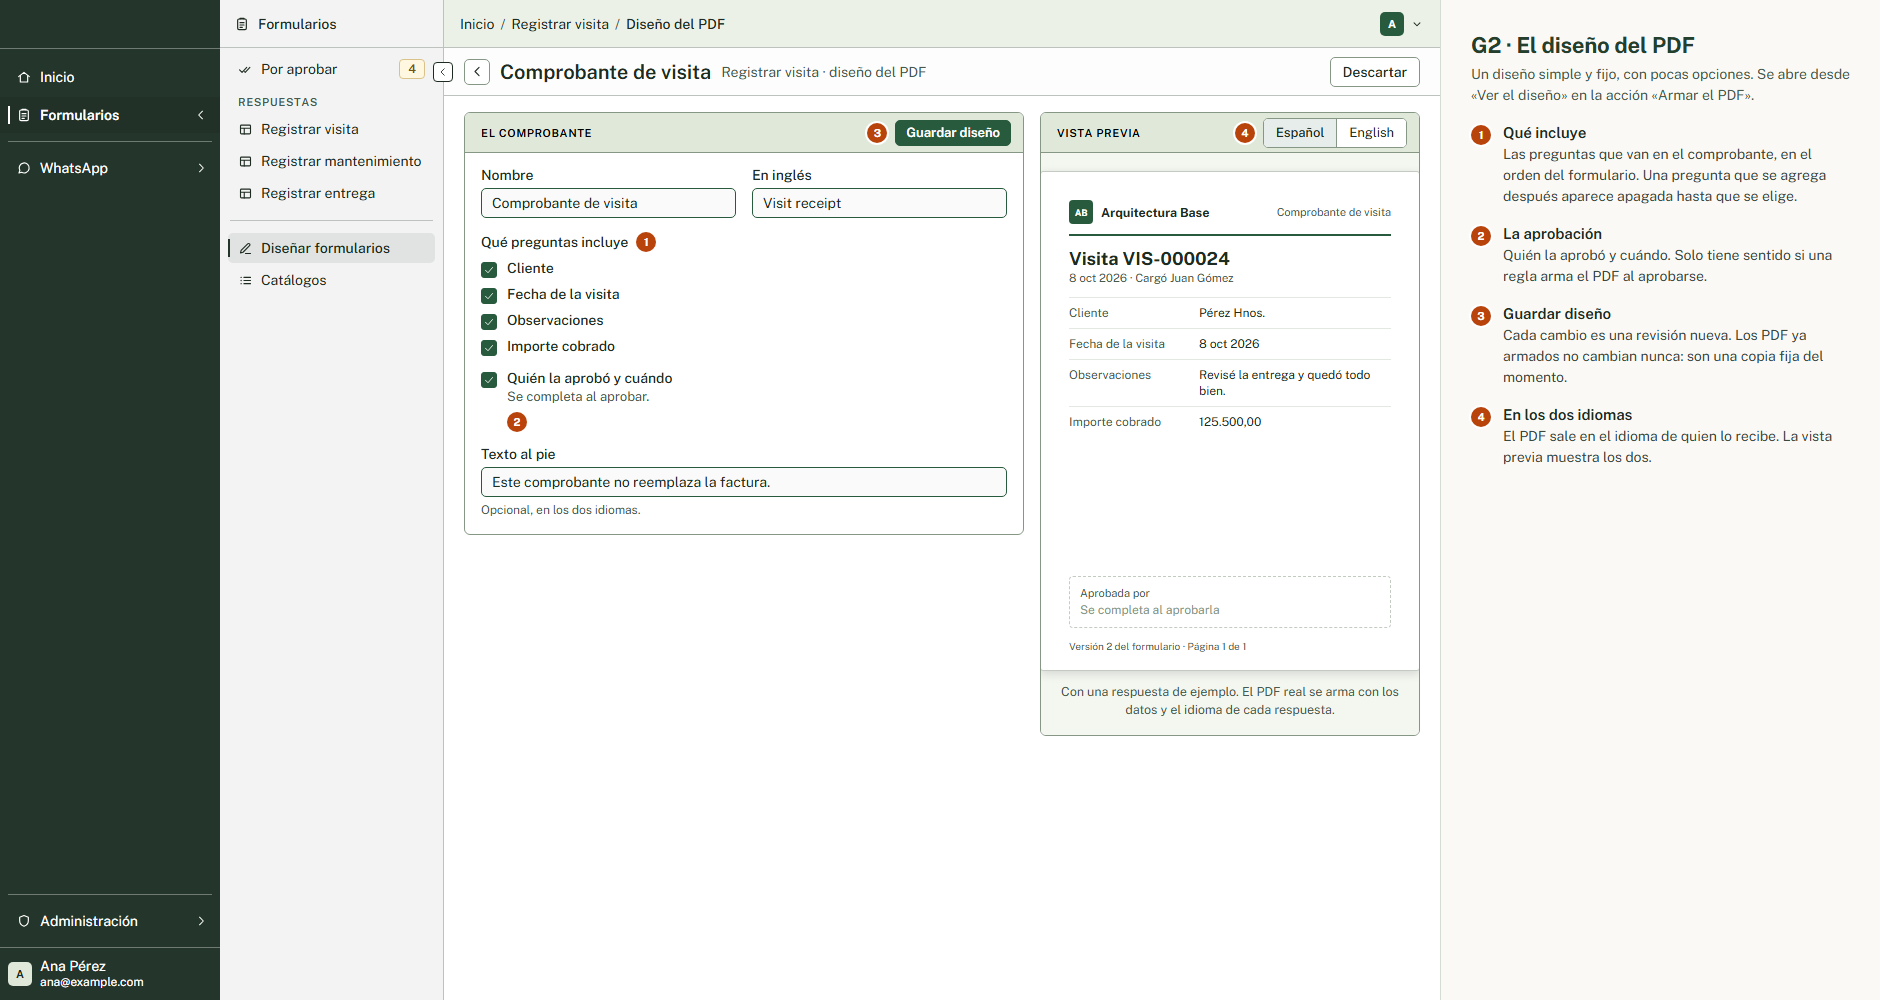
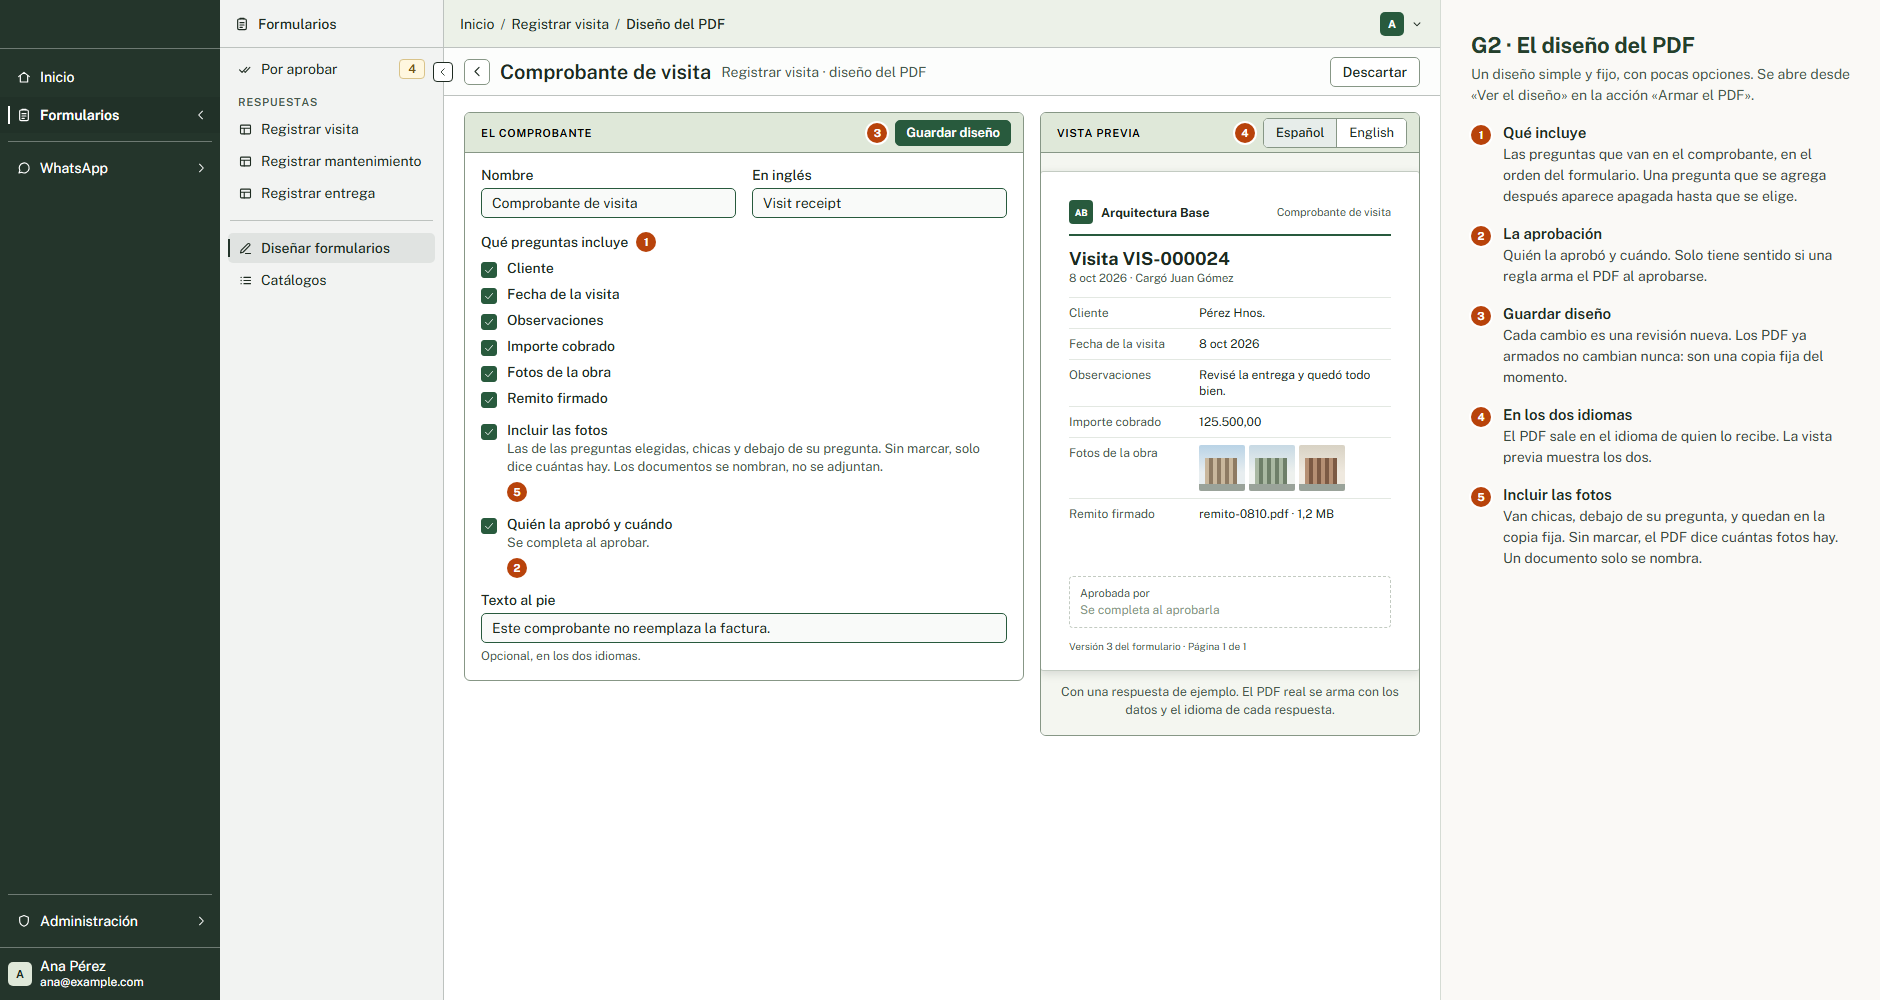
docs(formularios): registrar G2 con fotos y G5 con Reintentar

diff --git a/docs/design/formularios-whatsapp.md b/docs/design/formularios-whatsapp.md
@@ -165,10 +165,10 @@ que llegó; nadie aprueba lo que cargó. Los avisos fuera de las 24 horas necesi
 | Captura | Qué define |
 | --- | --- |
 | [G1 · Cuando llega una respuesta](evidence/formularios-whatsapp/reg-g1-reglas.png) | Reglas en palabras (cuándo, si, hacer en orden), una abierta para editar, Guardar reglas e historial de revisiones. |
-| [G2 · El diseño del PDF](evidence/formularios-whatsapp/reg-g2-pdf.png) | Comprobante simple: nombre en los dos idiomas, qué preguntas incluye, quién aprobó, texto al pie y vista previa. |
+| [G2 · El diseño del PDF](evidence/formularios-whatsapp/reg-g2-pdf.png) | Comprobante simple: nombre en los dos idiomas, qué preguntas incluye, quién aprobó, texto al pie y vista previa. «Incluir las fotos»: marcada, van chicas debajo de su pregunta; sin marcar, dice cuántas hay; los documentos solo se nombran (elegido el 2026-10-16). |
 | [G3 · Por aprobar](evidence/formularios-whatsapp/reg-g3-por-aprobar.png) | La bandeja de quien decide, en el panel con su cantidad; ordenada de la más vieja a la más nueva. |
 | [G4 · Aprobar o rechazar](evidence/formularios-whatsapp/reg-g4-decidir.png) | El detalle con la decisión; rechazar pide motivo; otra persona decidió antes; no aprobar lo propio. |
-| [G5 · Qué pasó después](evidence/formularios-whatsapp/reg-g5-historial.png) | Cada acción con su estado (esperando, en curso, hecho, no se pudo, sin confirmar, no aplica) y el PDF como copia fija. |
+| [G5 · Qué pasó después](evidence/formularios-whatsapp/reg-g5-historial.png) | Cada acción con su estado (esperando, en curso, hecho, no se pudo, sin confirmar, no aplica) y el PDF como copia fija. «Reintentar» retoma solo lo que no salió; lo «Sin confirmar» se consulta primero (2026-10-16). |
 | [G6 · Lo que recibe el empleado](evidence/formularios-whatsapp/reg-g6-celular.png) | Confirmación al recibir, aviso con el PDF al aprobar, motivo al rechazar, también en inglés. |
 
 Etapa 5, el asistente (2026-10-10), sobre el [resumen de la Etapa 5](../../../ArquitecturaBase/docs/plans/formularios/etapa-5-asistente.md). También son de esta etapa «Cuándo lo ofrece» (03),
